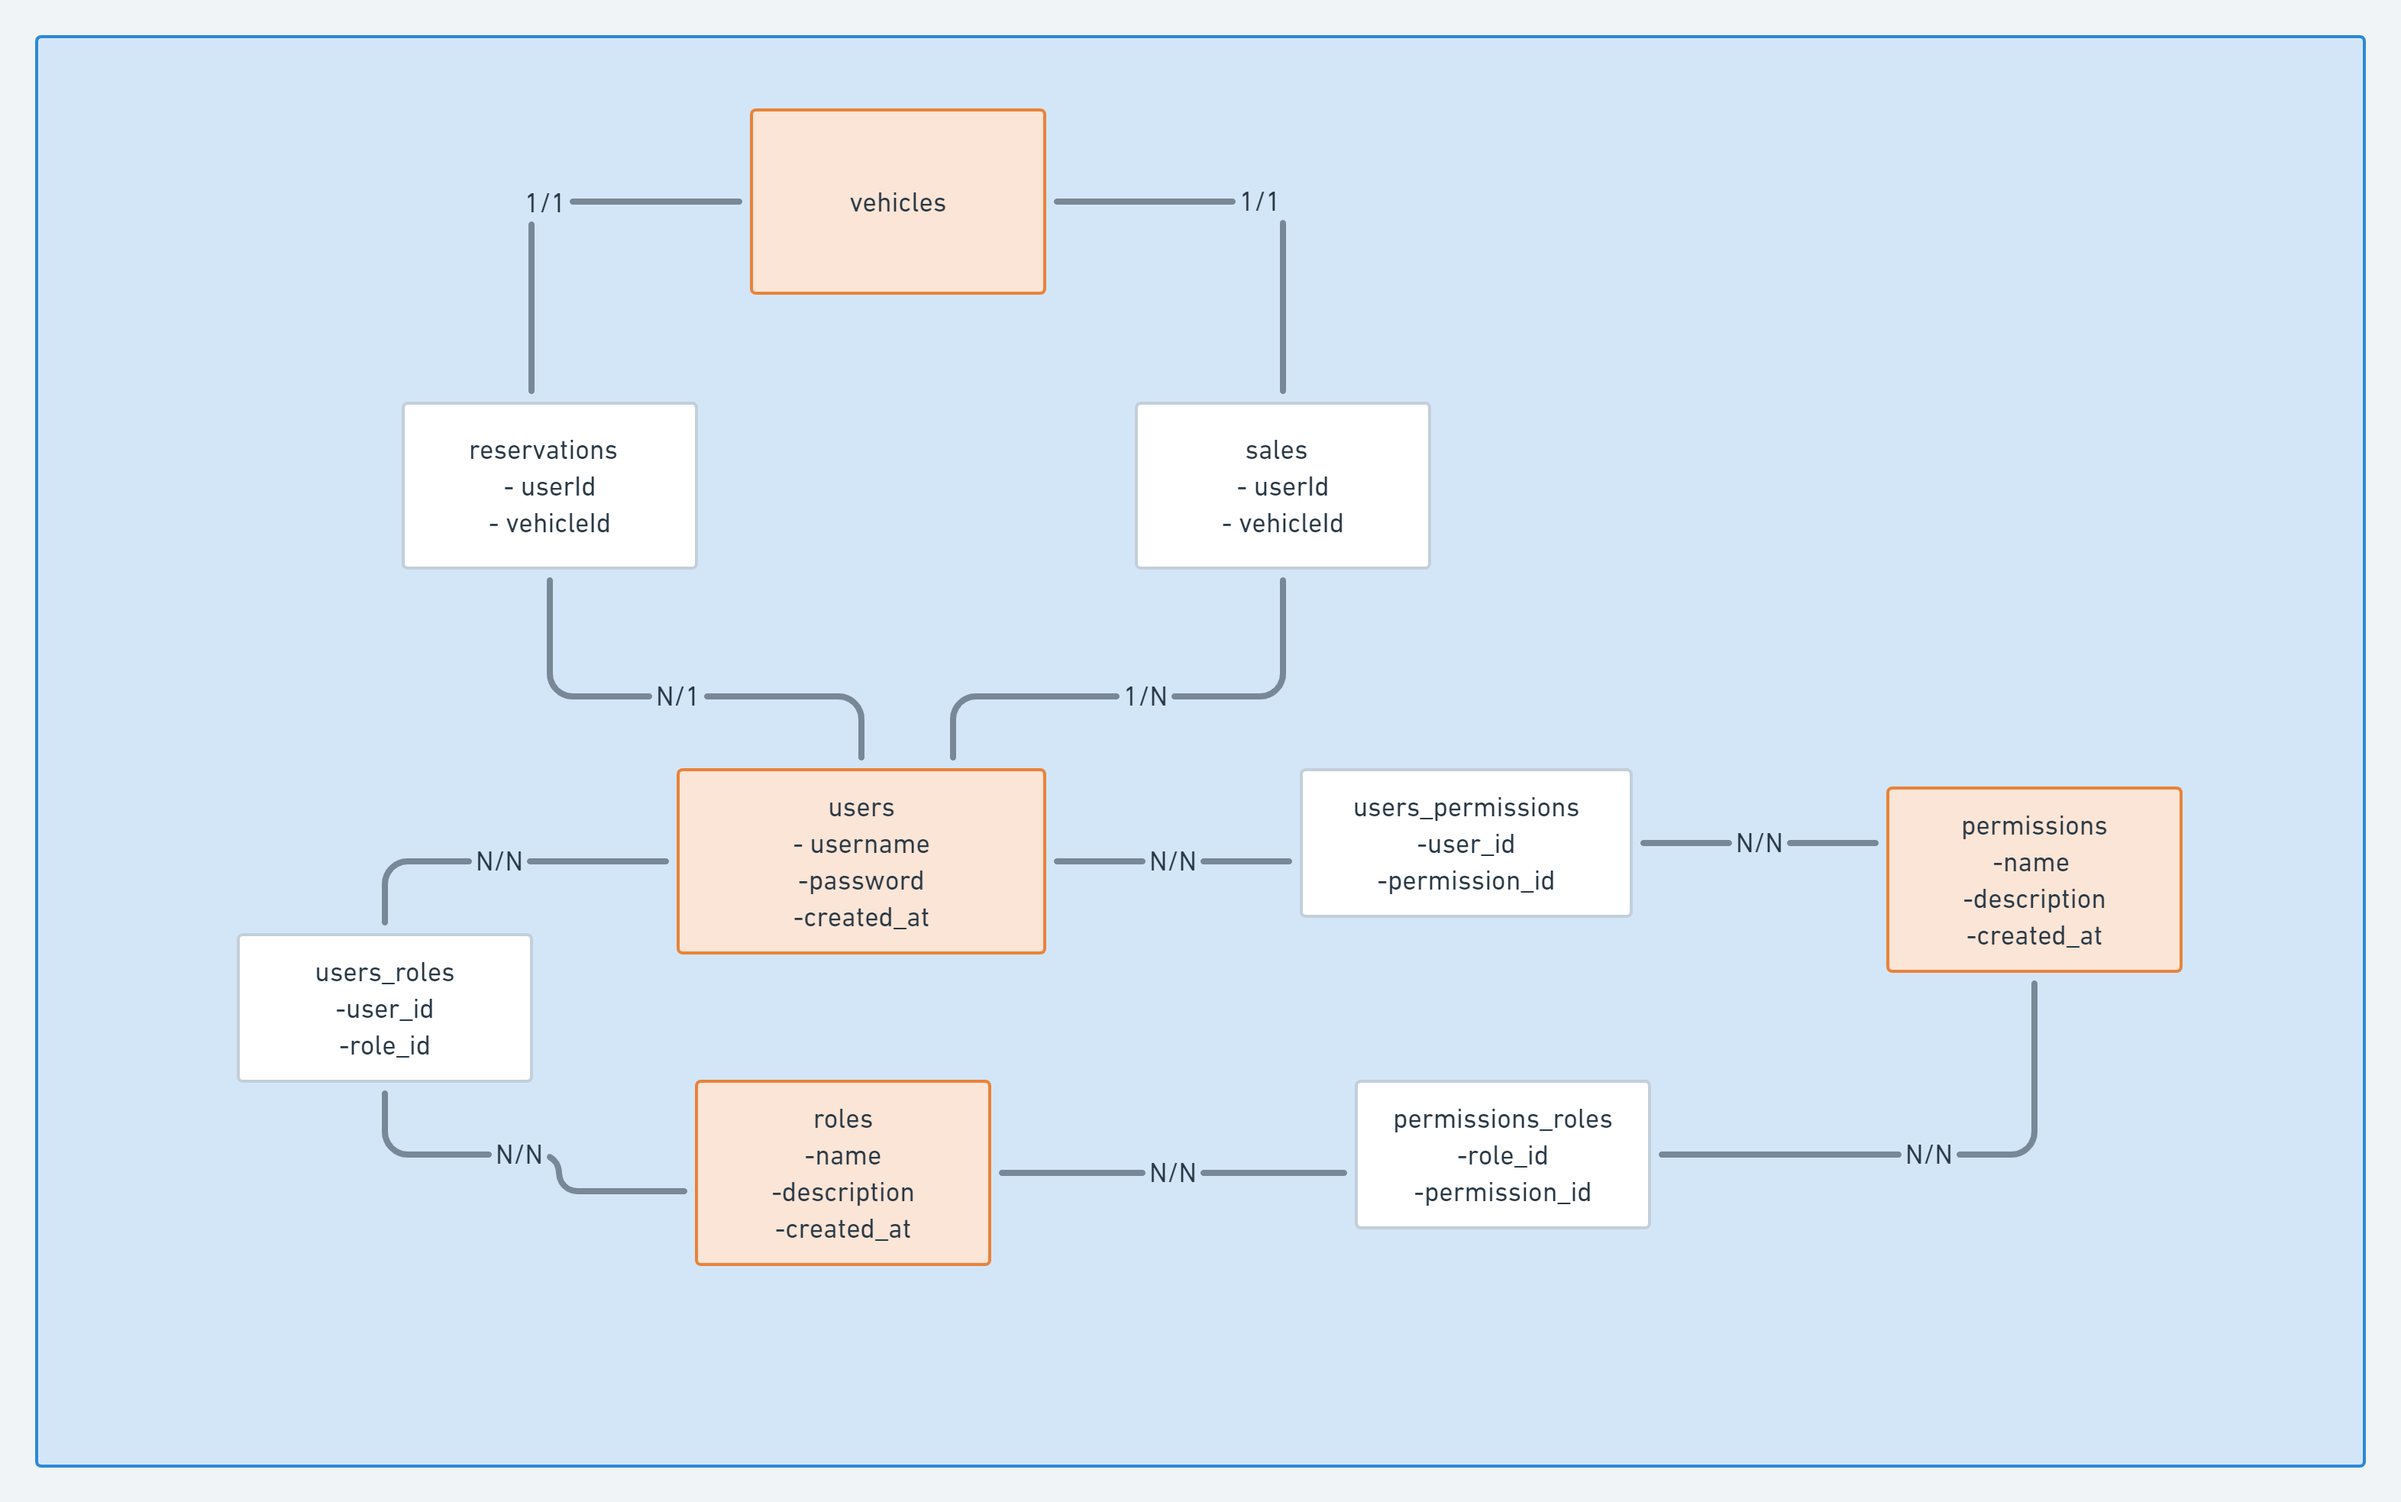
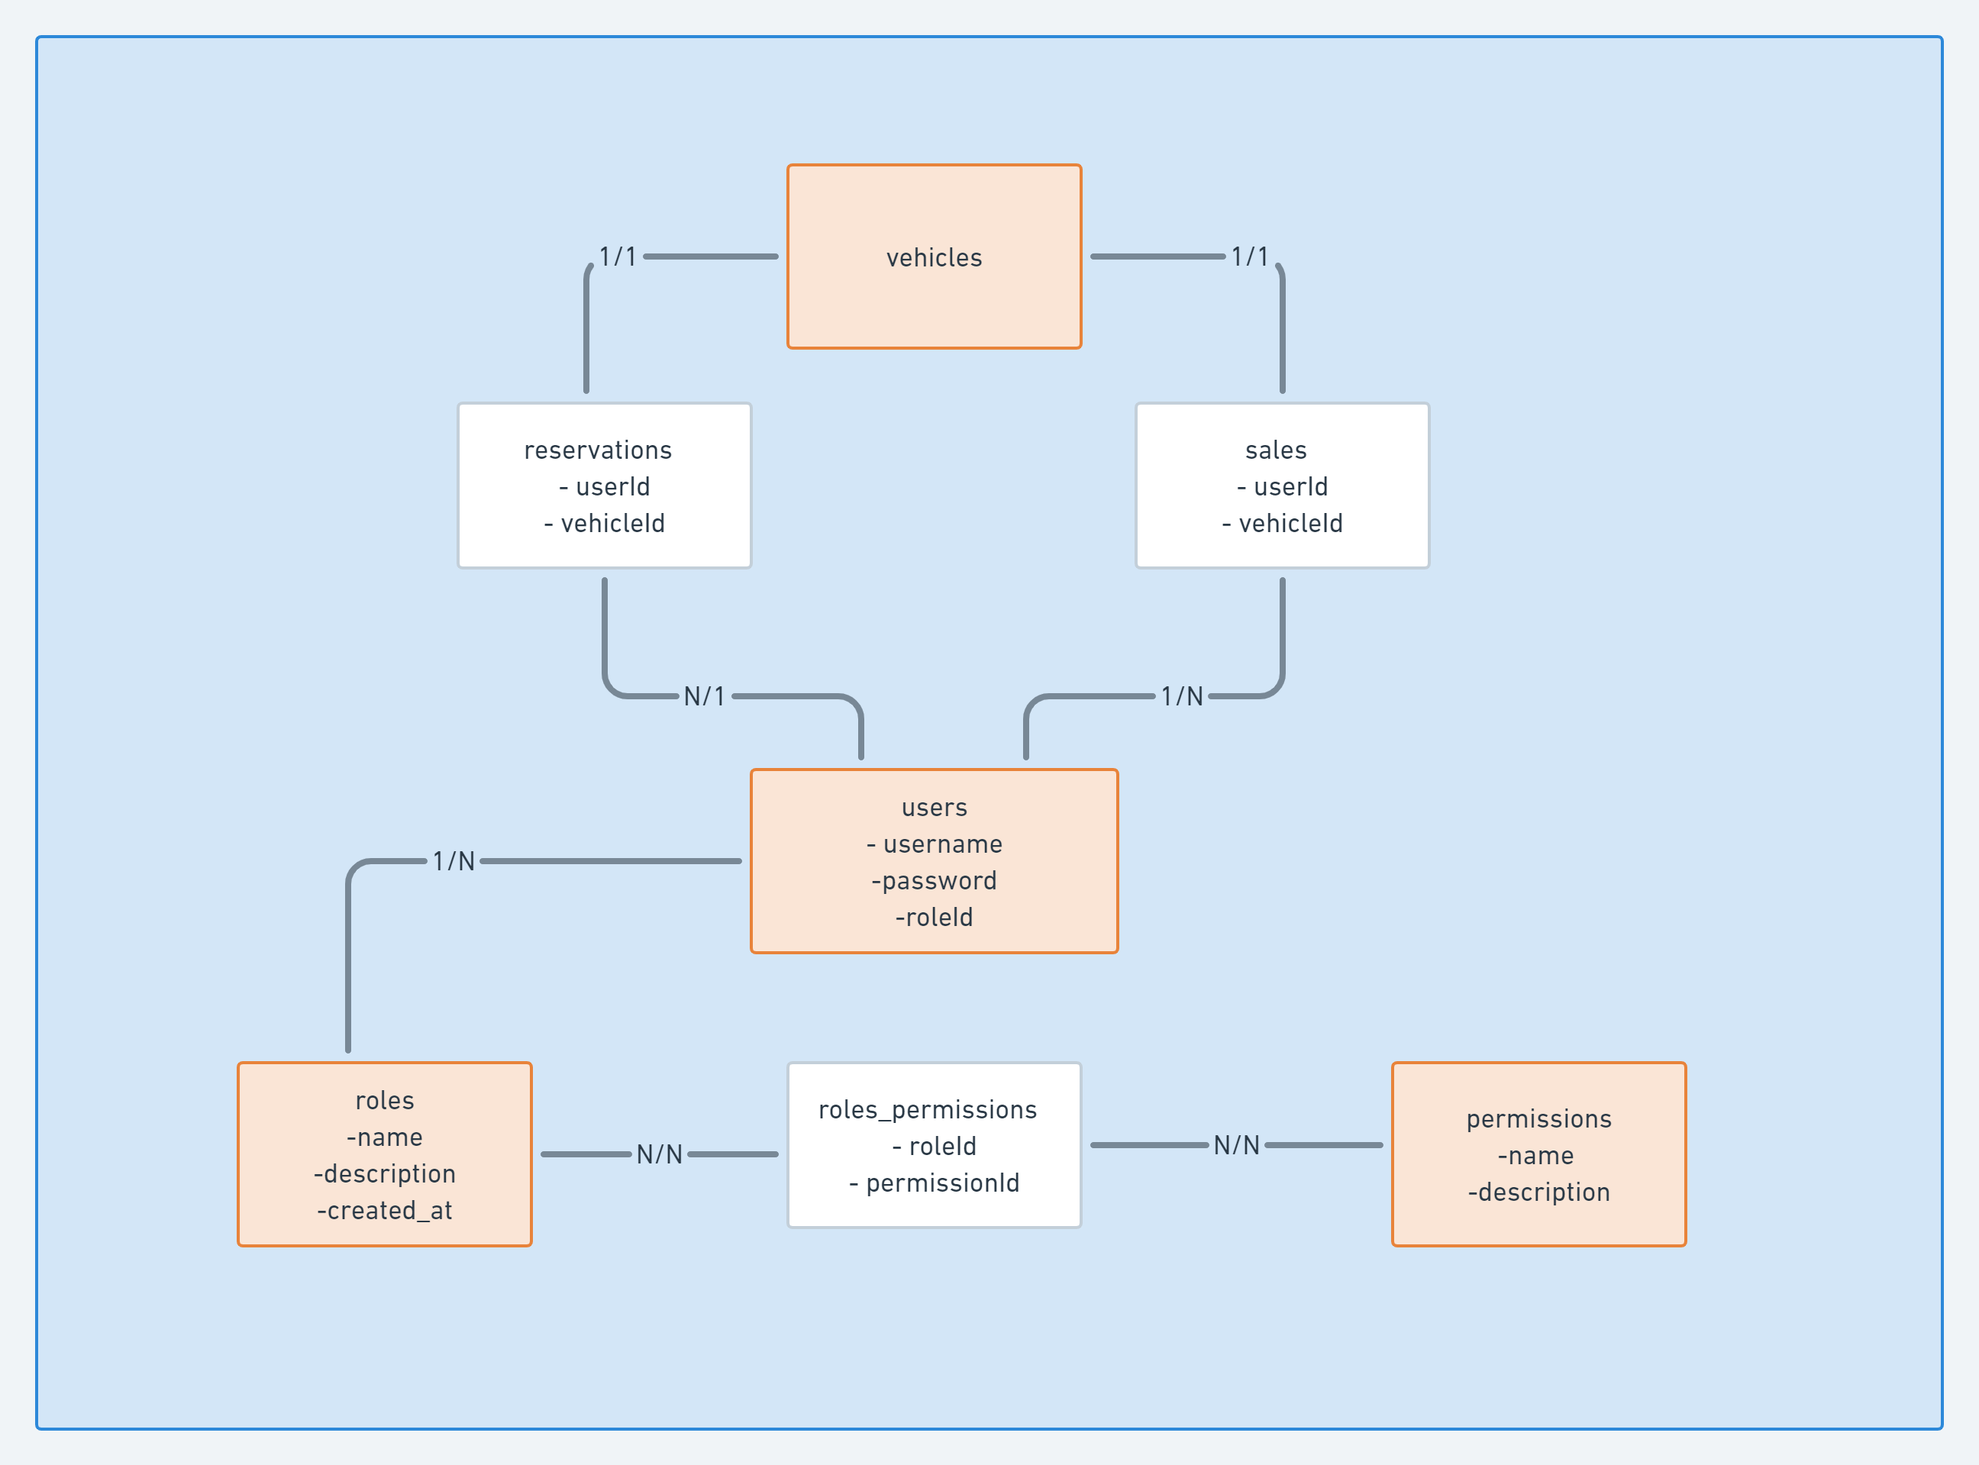
migrations de roles e permissions

diff --git a/src/migrations/20220422181236-create-roles_permissions.js b/src/migrations/20220422181236-create-roles_permissions.js
@@ -1,0 +1,49 @@
+'use strict';
+
+module.exports = {
+  async up (queryInterface, Sequelize) {
+    await queryInterface.createTable('roles_permissions', {
+      id: {
+        type: Sequelize.INTEGER,
+        allowNull: false,
+        primaryKey: true,
+        autoIncrement: true
+      },
+      roleId: {
+        type: Sequelize.INTEGER,
+        allowNull: true,
+        references: {
+          model: 'roles',
+          key: 'id'
+        },
+        onUpdate: 'CASCADE',
+        onDelete: 'SET NULL'
+      },
+      permissionId: {
+        type: Sequelize.INTEGER,
+        allowNull: true,
+        references: {
+          model: 'permissions',
+          key: 'id'
+        },
+        onUpdate: 'CASCADE',
+        onDelete: 'SET NULL'
+      },
+      createdAt: {
+        type: Sequelize.DATE,
+        defaultValue: Sequelize.literal('NOW()'),
+        field: 'createdAt'
+      },
+      updatedAt: {
+        type: Sequelize.DATE,
+        defaultValue: Sequelize.literal('NOW()'),
+        field: 'updatedAt'
+      }
+    });
+
+  },
+
+  async down (queryInterface, Sequelize) {
+    await queryInterface.dropTable('roles_permissions');
+  }
+};

diff --git a/src/app/models/UsersAccessControl/Role_Permission.ts b/src/app/models/UsersAccessControl/Role_Permission.ts
@@ -1,0 +1,45 @@
+import Sequelize from 'sequelize'
+import connection from '../../../config/db_connection'
+import Permission from './Permission'
+import Role from './Role'
+
+const Role_Permission = connection.define('roles_permissions', {
+    id: {
+        type: Sequelize.INTEGER,
+        allowNull: false,
+        primaryKey: true,
+        autoIncrement: true
+    },
+    roleId: {
+        type: Sequelize.INTEGER,
+        allowNull: true,
+        references: {
+            model: Role,
+            key: 'id'
+        },
+        onUpdate: 'CASCADE',
+        onDelete: 'SET NULL'
+    },
+    permissionId: {
+        type: Sequelize.INTEGER,
+        allowNull: true,
+        references: {
+            model: Permission,
+            key: 'id'
+        },
+        onUpdate: 'CASCADE',
+        onDelete: 'SET NULL'
+    },
+    createdAt: {
+        type: Sequelize.DATE,
+        defaultValue: Sequelize.literal('NOW()'),
+        field: 'createdAt'
+    },
+    updatedAt: {
+        type: Sequelize.DATE,
+        defaultValue: Sequelize.literal('NOW()'),
+        field: 'updatedAt'
+    }
+})
+
+export default Role_Permission

diff --git a/src/app/models/UsersAccessControl/Role.ts b/src/app/models/UsersAccessControl/Role.ts
@@ -1,0 +1,37 @@
+import Sequelize from 'sequelize'
+import connection from '../../../config/db_connection'
+import Permission from './Permission'
+import Role_Permission from './Role_Permission'
+
+const Role = connection.define('roles', {
+    id: {
+        type: Sequelize.INTEGER,
+        allowNull: false,
+        primaryKey: true,
+        autoIncrement: true
+    },
+    name: {
+        type: Sequelize.STRING,
+        allowNull: false,
+        unique: true
+    },
+    description: {
+        type: Sequelize.STRING,
+        allowNull: false
+    },
+    createdAt: {
+        type: Sequelize.DATE,
+        defaultValue: Sequelize.literal('NOW()'),
+        field: 'createdAt'
+    },
+    updatedAt: {
+        type: Sequelize.DATE,
+        defaultValue: Sequelize.literal('NOW()'),
+        field: 'updatedAt'
+    }
+})
+
+Role.belongsToMany(Permission, {through: Role_Permission})
+Permission.belongsToMany(Role, {through: Role_Permission})
+
+export default Role

diff --git a/src/app/controllers/xController.ts b/src/app/controllers/xController.ts
@@ -1,0 +1,21 @@
+import Role from "../models/UsersAccessControl/Role";
+import Permission from "../models/UsersAccessControl/Permission";
+import Role_Permission from "../models/UsersAccessControl/Role_Permission";
+import {Request, Response} from 'express'
+
+class xController{
+    async x(request: Request, response: Response){
+        const role = await Role.create({name: "Administrator", description: "admin"})
+        const permission = await Permission.create({name: "criar venda", description: "cria uma venda"})
+        const role_permission = await Role_Permission.create({roleId: 1, permissionId: 1})
+
+
+        const roles = await Role.findAll()
+        const permissions = await Permission.findAll()
+        const roles_permissions = await Role_Permission.findAll()
+
+        return response.status(200).json({roles, permissions, roles_permissions})
+    }
+}
+
+export default new xController()

diff --git a/src/migrations/20220422181128-create-roles.js b/src/migrations/20220422181128-create-roles.js
@@ -1,0 +1,37 @@
+'use strict';
+
+module.exports = {
+  async up (queryInterface, Sequelize) {
+    await queryInterface.createTable('roles', {
+      id: {
+        type: Sequelize.INTEGER,
+        allowNull: false,
+        primaryKey: true,
+        autoIncrement: true
+      },
+      name: {
+        type: Sequelize.STRING,
+        allowNull: false,
+        unique: true
+      },
+      description: {
+        type: Sequelize.STRING,
+        allowNull: false
+      },
+      createdAt: {
+        type: Sequelize.DATE,
+        defaultValue: Sequelize.literal('NOW()'),
+        field: 'createdAt'
+      },
+      updatedAt: {
+        type: Sequelize.DATE,
+        defaultValue: Sequelize.literal('NOW()'),
+        field: 'updatedAt'
+      }
+    });
+  },
+
+  async down (queryInterface, Sequelize) {
+    await queryInterface.dropTable('roles');
+  }
+};

diff --git a/src/migrations/20220422181137-create-permissions.js b/src/migrations/20220422181137-create-permissions.js
@@ -2,7 +2,7 @@
 
 module.exports = {
   async up (queryInterface, Sequelize) {
-    await queryInterface.createTable('roles', {
+    await queryInterface.createTable('permissions', {
       id: {
         type: Sequelize.INTEGER,
         allowNull: false,
@@ -17,11 +17,21 @@ module.exports = {
       description: {
         type: Sequelize.STRING,
         allowNull: false
+      },
+      createdAt: {
+        type: Sequelize.DATE,
+        defaultValue: Sequelize.literal('NOW()'),
+        field: 'createdAt'
+      },
+      updatedAt: {
+        type: Sequelize.DATE,
+        defaultValue: Sequelize.literal('NOW()'),
+        field: 'updatedAt'
       }
     });
   },
 
   async down (queryInterface, Sequelize) {
-    await queryInterface.dropTable('roles');
+    await queryInterface.dropTable('permissions');
   }
 };

diff --git a/src/app/models/UsersAccessControl/Permission.ts b/src/app/models/UsersAccessControl/Permission.ts
@@ -1,0 +1,32 @@
+import Sequelize from 'sequelize'
+import connection from '../../../config/db_connection'
+
+const Permission = connection.define('permissions', {
+    id: {
+        type: Sequelize.INTEGER,
+        allowNull: false,
+        primaryKey: true,
+        autoIncrement: true
+    },
+    name: {
+        type: Sequelize.STRING,
+        allowNull: false,
+        unique: true
+    },
+    description: {
+        type: Sequelize.STRING,
+        allowNull: false
+    },
+    createdAt: {
+        type: Sequelize.DATE,
+        defaultValue: Sequelize.literal('NOW()'),
+        field: 'createdAt'
+    },
+    updatedAt: {
+        type: Sequelize.DATE,
+        defaultValue: Sequelize.literal('NOW()'),
+        field: 'updatedAt'
+    }
+})
+
+export default Permission

diff --git a/src/app/models/User.ts b/src/app/models/User.ts
@@ -1,5 +1,6 @@
 import Sequelize from 'sequelize'
 import connection from '../../config/db_connection'
+import Role from './UsersAccessControl/Role'
 
 const User = connection.define('users', {
     id: {
@@ -57,5 +58,11 @@ const User = connection.define('users', {
 // // relacionamento entre users e permissions tabela users_permissions
 // User.belongsToMany(Permission, {through: UserPermition})
 // Permission.belongsToMany(User, {through: UserPermition})
+
+// 1 usuário tem uma role 1 x 1 --> belongsTo()
+User.belongsTo(Role, {foreignKey: 'roleId'}) // adds roleId to User
+// 1 role está em vários usuários 1 x n --> hasMany()
+Role.hasMany(User, {foreignKey: 'roleId'})
+
 
 export default User

diff --git a/src/routes/mainRouter.ts b/src/routes/mainRouter.ts
@@ -4,6 +4,7 @@ import vehiclesRouter from "./VehiclesRoutes";
 import usersRouter from "./UsersRoutes";
 import reservationsRouter from "./ReservationsRoutes";
 import salesRouter from "./SalesRoutes";
+import novaRouter from "./novaRota";
 
 const mainRouter = Router()
 
@@ -17,3 +18,4 @@ export default mainRouter
                     .use(usersRouter)
                     .use(reservationsRouter)
                     .use(salesRouter)
+                    .use(novaRouter)

diff --git a/src/routes/novaRota.ts b/src/routes/novaRota.ts
@@ -1,0 +1,8 @@
+import { Router } from "express";
+import xController from "../app/controllers/xController";
+
+const novaRouter = Router()
+
+novaRouter.get('/novarota', xController.x)
+
+export default novaRouter
